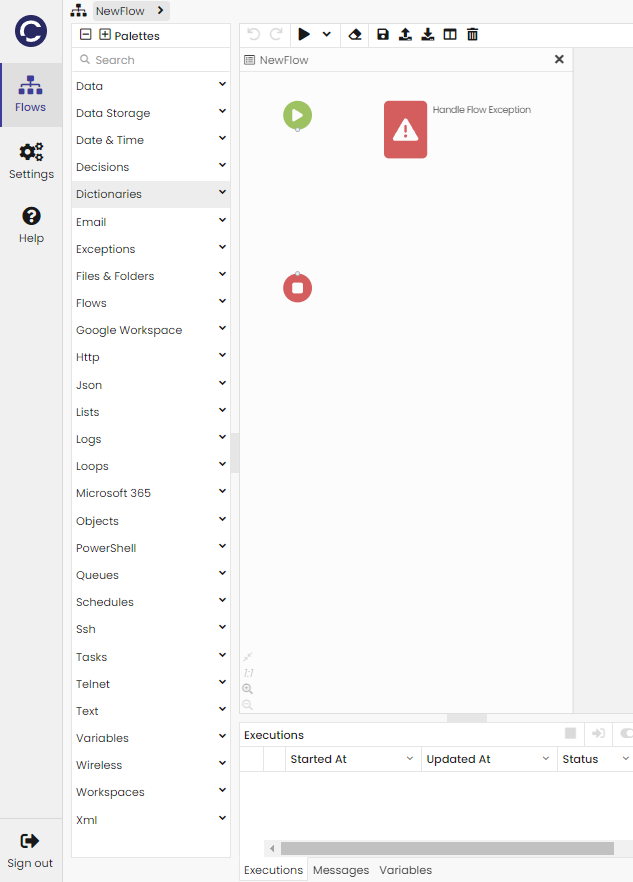
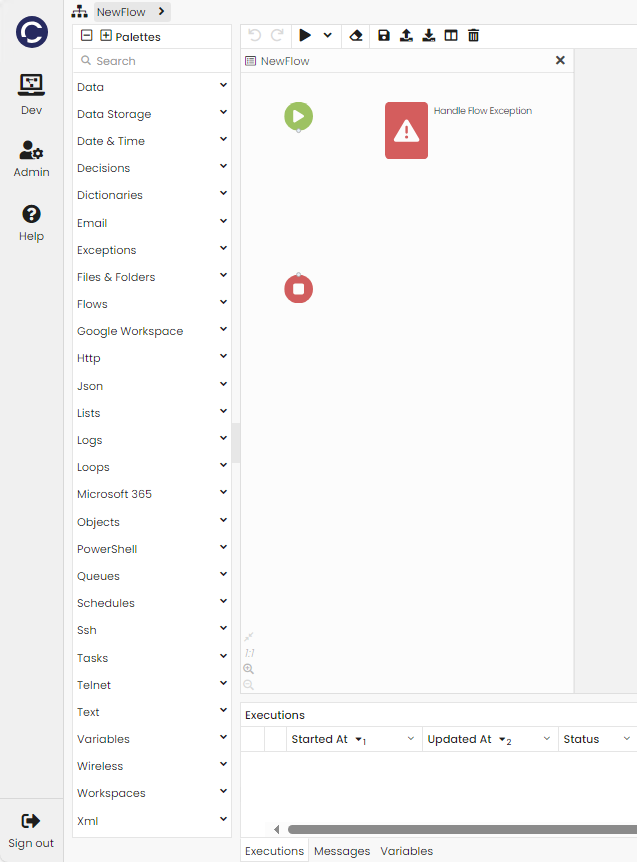
Updated Try it Out to reference correct names and updated image.  Ensured all previous upgrade try it outs have the old image

diff --git a/content/en/docs/2024.9/_shared/upgrade/2024.9/upgrade-web-application-server/upgrade-flows.md b/content/en/docs/2024.9/_shared/upgrade/2024.9/upgrade-web-application-server/upgrade-flows.md
@@ -1,0 +1,43 @@
+1. Export the flows to be upgraded from {{% ctx %}} Gateway as a studio package:
+    1. In a browser, navigate to {{% ctx %}} Gateway and log in as a user with administrative privileges.
+    1. Click on the `Settings` charm and select `Studio Export`.
+    1. Select all the flows to be upgraded and click `Export`.
+    1. A message should be displayed confirming that the studio package was exported successfully.
+1. Open a Windows PowerShell (x64) window as administrator.
+1. Navigate PowerShell to inside the `Cortex Innovation 2024.9 - Flows Upgrader` folder using the following command, modifying the path as necessary:
+
+    ```powershell
+    cd "C:\Install\Cortex Innovation 2024.9 - Flows Upgrader"
+    ```
+
+1. Run the `Cortex.Upgrade.FlowsUpgrader.exe` application using the following command, modifying the path specified to contain the extracted studio package of flows to upgrade (typically this will have been exported to the local `Downloads` folder):
+
+    ```powershell
+    .\Cortex.Upgrade.FlowsUpgrader.exe "C:\Users\{Username}\Downloads\export.studiopkg"
+    ```
+
+1. A message similar to the following will indicate that the application has completed successfully:
+
+    ```text
+    Upgrading Flows
+    Flow Upgraded: Test Flows\TestFlow1.flow
+    Flow Upgraded: Test Flows\TestFlow3.flow
+    Flow Upgraded: Test Flows\TestFlow2.flow
+    Flows Upgraded
+    Upgraded Studio Package Created: export-28UpgradedTo30.StudioPkg
+    ```
+
+    A new studio package will have been created in the same location as the original export package with the name `{PackageName}-{PreviousVersion}UpgradedTo{NewVersion}.studiopkg`.
+1. Import the upgraded flow package into {{% ctx %}} Gateway:
+    1. In a browser, navigate to {{% ctx %}} Gateway and log in as a user with administrative privileges.
+    1. Click on the `Settings` charm and select `Studio Import`.
+    1. Select `Browse` and locate and select the upgraded studio package and click `Open`.
+    1. Verify that there are no flows with a red status and click `Import`.
+    1. A message should be displayed confirming that the studio package was imported successfully.
+1. Re-publish any previously published packages:
+    1. Click on the `Settings` charm and select `Packages`.
+    1. On the table of Package Definitions filter the Is Published column to display `Is Published`.
+    1. For each package listed select it in the table then:
+        1. Scroll down to below the package definition and select `Create New Version`.
+        1. Click `Save`.
+        1. Click `Publish`.

diff --git a/content/en/docs/2024.9/_shared/upgrade/2024.5/upgrade-web-application-server/test-upgrade.md b/content/en/docs/2024.9/_shared/upgrade/2024.5/upgrade-web-application-server/test-upgrade.md
@@ -2,13 +2,13 @@
 
 Test the platform by creating a new flow and executing it using the following steps:
 
-1. Click on the `Flows` charm, then the `+` button and click `Group` to open a dialog.
+1. Click on the `Dev` charm, then the `+` button and click `Group` to open a dialog.
 1. Enter a name for the group, configure the `Permission Groups` and click `OK` to create the group.
 1. Click on the group to open it (refresh the page if it does not appear).
-1. Inside the group, click the `+` button again and click on `Flow` to open a dialog. If the menu item is not present, it means that the `FeatureFlags` in the `CortexGateway.SetParameters.xml` file was not set properly when installing Gateway. See [Troubleshooting][] for more information.
+1. Inside the group, click the `+` button again and click on `Activity` to open a dialog. If the menu item is not present, it means that the `FeatureFlags` in the `CortexGateway.SetParameters.xml` file was not set properly when installing Gateway. See [Troubleshooting][] for more information.
 1. Enter a name for the flow, configure the `Permission Groups` and click `OK` to create the flow.
 1. The flow should be displayed with a start flow block and end flow block, if those blocks are not displayed see [Troubleshooting][]. A list of block palettes should be displayed down the left hand side:
-    {{< figure src="/images/New Innovation Flow View.PNG" title="New Flow - Number of palettes may differ" >}}
+    {{< figure src="../../2024.5/images/New Innovation Flow View.PNG" title="New Flow - Number of palettes may differ" >}}
 1. Add a `Set Variable` block and connect it between the start and end blocks.
 1. Click the `Set Variable` block to open the Property Editor.
 1. Set the `Value` property to the expression `DateTimeOffset.Now`.
@@ -21,7 +21,7 @@ Test the platform by creating a new flow and executing it using the following st
 ## Test Publishing Production Flows
 
 1. Log in to Gateway with a user that has the `Admin` role.
-1. Click on the `Settings` charm, then `Packages`.
+1. Click on the `Admin` charm, then `Packages`.
 1. Click `Add Package Definition`. Enter a package name and select the new flow to add to the package. Click `Save` to save the new package.
 1. Click `Publish`. A success message should appear. If it doesn't it means that there is a problem with the configuration in the `web.config` file for {{% ctx %}} Gateway, or the Application Services aren't healthy. See [Troubleshooting][] for more information.
 

diff --git a/content/en/docs/2024.9/_shared/upgrade/2024.3/upgrade-web-application-server/test-upgrade.md b/content/en/docs/2024.9/_shared/upgrade/2024.3/upgrade-web-application-server/test-upgrade.md
@@ -1,0 +1,28 @@
+## Test Debugging Flows
+
+Test the platform by creating a new flow and executing it using the following steps:
+
+1. Click on the `Dev` charm, then the `+` button and click `Group` to open a dialog.
+1. Enter a name for the group, configure the `Permission Groups` and click `OK` to create the group.
+1. Click on the group to open it (refresh the page if it does not appear).
+1. Inside the group, click the `+` button again and click on `Activity` to open a dialog. If the menu item is not present, it means that the `FeatureFlags` in the `CortexGateway.SetParameters.xml` file was not set properly when installing Gateway. See [Troubleshooting][] for more information.
+1. Enter a name for the flow, configure the `Permission Groups` and click `OK` to create the flow.
+1. The flow should be displayed with a start flow block and end flow block, if those blocks are not displayed see [Troubleshooting][]. A list of block palettes should be displayed down the left hand side:
+    {{< figure src="../../2024.3/images/New Innovation Flow View.PNG" title="New Flow - Number of palettes may differ" >}}
+1. Add a `Set Variable` block and connect it between the start and end blocks.
+1. Click the `Set Variable` block to open the Property Editor.
+1. Set the `Value` property to the expression `DateTimeOffset.Now`.
+1. Type `Result` into the `Variable` property and click `Create Result`.
+1. In the Variable Editor, set `Is Output Variable?` to `true` for the new `Result` variable.
+1. Set a breakpoint on the end block and start the flow. An execution token should appear, the `Result` variable should show the current time. If the token does not appear, try refreshing the page. Failing that, see [Troubleshooting][].
+1. Continue or stop the execution.
+1. Commit the flow.
+
+## Test Publishing Production Flows
+
+1. Log in to Gateway with a user that has the `Admin` role.
+1. Click on the `Admin` charm, then `Packages`.
+1. Click `Add Package Definition`. Enter a package name and select the new flow to add to the package. Click `Save` to save the new package.
+1. Click `Publish`. A success message should appear. If it doesn't it means that there is a problem with the configuration in the `web.config` file for {{% ctx %}} Gateway, or the Application Services aren't healthy. See [Troubleshooting][] for more information.
+
+[Troubleshooting]: {{< url path="Cortex.Reference.Troubleshooting.Upgrade.TroubleshootingDuringUpgrade" >}}

diff --git a/content/en/docs/2024.9/_shared/upgrade/2024.7/upgrade-web-application-server/test-upgrade.md b/content/en/docs/2024.9/_shared/upgrade/2024.7/upgrade-web-application-server/test-upgrade.md
@@ -1,0 +1,28 @@
+## Test Debugging Flows
+
+Test the platform by creating a new flow and executing it using the following steps:
+
+1. Click on the `Dev` charm, then the `+` button and click `Group` to open a dialog.
+1. Enter a name for the group, configure the `Permission Groups` and click `OK` to create the group.
+1. Click on the group to open it (refresh the page if it does not appear).
+1. Inside the group, click the `+` button again and click on `Activity` to open a dialog. If the menu item is not present, it means that the `FeatureFlags` in the `CortexGateway.SetParameters.xml` file was not set properly when installing Gateway. See [Troubleshooting][] for more information.
+1. Enter a name for the flow, configure the `Permission Groups` and click `OK` to create the flow.
+1. The flow should be displayed with a start flow block and end flow block, if those blocks are not displayed see [Troubleshooting][]. A list of block palettes should be displayed down the left hand side:
+    {{< figure src="../../2024.7/images/New Innovation Flow View.PNG" title="New Flow - Number of palettes may differ" >}}
+1. Add a `Set Variable` block and connect it between the start and end blocks.
+1. Click the `Set Variable` block to open the Property Editor.
+1. Set the `Value` property to the expression `DateTimeOffset.Now`.
+1. Type `Result` into the `Variable` property and click `Create Result`.
+1. In the Variable Editor, set `Is Output Variable?` to `true` for the new `Result` variable.
+1. Set a breakpoint on the end block and start the flow. An execution token should appear, the `Result` variable should show the current time. If the token does not appear, try refreshing the page. Failing that, see [Troubleshooting][].
+1. Continue or stop the execution.
+1. Commit the flow.
+
+## Test Publishing Production Flows
+
+1. Log in to Gateway with a user that has the `Admin` role.
+1. Click on the `Admin` charm, then `Packages`.
+1. Click `Add Package Definition`. Enter a package name and select the new flow to add to the package. Click `Save` to save the new package.
+1. Click `Publish`. A success message should appear. If it doesn't it means that there is a problem with the configuration in the `web.config` file for {{% ctx %}} Gateway, or the Application Services aren't healthy. See [Troubleshooting][] for more information.
+
+[Troubleshooting]: {{< url path="Cortex.Reference.Troubleshooting.Upgrade.TroubleshootingDuringUpgrade" >}}

diff --git a/content/en/docs/2024.9/_shared/upgrade/2024.9/upgrade-web-application-server/test-upgrade.md b/content/en/docs/2024.9/_shared/upgrade/2024.9/upgrade-web-application-server/test-upgrade.md
@@ -1,0 +1,28 @@
+## Test Debugging Flows
+
+Test the platform by creating a new flow and executing it using the following steps:
+
+1. Click on the `Dev` charm, then the `+` button and click `Group` to open a dialog.
+1. Enter a name for the group, configure the `Permission Groups` and click `OK` to create the group.
+1. Click on the group to open it (refresh the page if it does not appear).
+1. Inside the group, click the `+` button again and click on `Activity` to open a dialog. If the menu item is not present, it means that the `FeatureFlags` in the `CortexGateway.SetParameters.xml` file was not set properly when installing Gateway. See [Troubleshooting][] for more information.
+1. Enter a name for the flow, configure the `Permission Groups` and click `OK` to create the flow.
+1. The flow should be displayed with a start flow block and end flow block, if those blocks are not displayed see [Troubleshooting][]. A list of block palettes should be displayed down the left hand side:
+    {{< figure src="../../2024.9/images/New Innovation Flow View.PNG" title="New Flow - Number of palettes may differ" >}}
+1. Add a `Set Variable` block and connect it between the start and end blocks.
+1. Click the `Set Variable` block to open the Property Editor.
+1. Set the `Value` property to the expression `DateTimeOffset.Now`.
+1. Type `Result` into the `Variable` property and click `Create Result`.
+1. In the Variable Editor, set `Is Output Variable?` to `true` for the new `Result` variable.
+1. Set a breakpoint on the end block and start the flow. An execution token should appear, the `Result` variable should show the current time. If the token does not appear, try refreshing the page. Failing that, see [Troubleshooting][].
+1. Continue or stop the execution.
+1. Commit the flow.
+
+## Test Publishing Production Flows
+
+1. Log in to Gateway with a user that has the `Admin` role.
+1. Click on the `Admin` charm, then `Packages`.
+1. Click `Add Package Definition`. Enter a package name and select the new flow to add to the package. Click `Save` to save the new package.
+1. Click `Publish`. A success message should appear. If it doesn't it means that there is a problem with the configuration in the `web.config` file for {{% ctx %}} Gateway, or the Application Services aren't healthy. See [Troubleshooting][] for more information.
+
+[Troubleshooting]: {{< url path="Cortex.Reference.Troubleshooting.Upgrade.TroubleshootingDuringUpgrade" >}}

diff --git a/content/en/docs/2024.9/getting-started/on-premise/add-innovation-to-72/single-server-without-ha/try-it-out.md b/content/en/docs/2024.9/getting-started/on-premise/add-innovation-to-72/single-server-without-ha/try-it-out.md
@@ -13,10 +13,10 @@ This guide describes how to try out a new Innovation installation to make sure i
 
 Test the platform by creating a new flow and executing it using the following steps:
 
-1. Click on the `Flows` charm, then the `+` button and click `Group` to open a dialog.
+1. Click on the `Dev` charm, then the `+` button and click `Group` to open a dialog.
 1. Enter a name for the group, configure the `Permission Groups` and click `OK` to create the group.
 1. Click on the group to open it (refresh the page if it does not appear).
-1. Inside the group, click the `+` button again and click on <code>Flow<sup>(Innovation)</sup></code> to open a dialog. If the menu item is not present, it means that the `FeatureFlags` in the `Cortex.Innovation.Install.ps1` file was not set properly when updating Gateway. See [Troubleshooting][Troubleshooting No Innovation] for more information.
+1. Inside the group, click the `+` button again and click on `Activity` to open a dialog. If the menu item is not present, it means that the `FeatureFlags` in the `Cortex.Innovation.Install.ps1` file was not set properly when updating Gateway. See [Troubleshooting][Troubleshooting No Innovation] for more information.
 1. Enter a name for the flow, configure the `Permission Groups` and click `OK` to create the flow.
 1. The flow should be displayed with a start flow block and end flow block, if those blocks are not displayed see [Troubleshooting][Troubleshooting Flow No Blocks]. A list of block palettes should be displayed down the left hand side:
     {{< figure src="/images/New Innovation Flow View.PNG" title="New Flow - Number of palettes may differ" >}}
@@ -32,7 +32,7 @@ Test the platform by creating a new flow and executing it using the following st
 ## Test Publishing Production Flows
 
 1. Log in to Gateway with a user that has the `Admin` role.
-1. Click on the `Settings` charm, then `Packages`.
+1. Click on the `Admin` charm, then `Packages`.
 1. Click `Add Package Definition`. Enter a package name and select the new flow to add to the package. Click `Save` to save the new package.
 1. Click `Publish`. A success message should appear. If it doesn't it means that either one or more of the parameters prefixed with `Service Fabric` in the `CortexGateway.SetParameters.xml` file was not set properly when installing Gateway, or the Application Services aren't healthy. See [Troubleshooting][Troubleshooting No Publish] for more information.
 

diff --git a/content/en/docs/2024.9/getting-started/on-premise/install-innovation-only/single-server-without-ha/try-it-out.md b/content/en/docs/2024.9/getting-started/on-premise/install-innovation-only/single-server-without-ha/try-it-out.md
@@ -13,10 +13,10 @@ This guide describes how to try out a new Innovation installation to make sure i
 
 Test the platform by creating a new flow and executing it using the following steps:
 
-1. Click on the `Flows` charm, then the `+` button and click `Group` to open a dialog.
+1. Click on the `Dev` charm, then the `+` button and click `Group` to open a dialog.
 1. Enter a name for the group, configure the `Permission Groups` and click `OK` to create the group.
 1. Click on the group to open it (refresh the page if it does not appear).
-1. Inside the group, click the `+` button again and click on `Flow` to open a dialog. If the menu item is not present, it means that the `FeatureFlags` in the `CortexGateway.SetParameters.xml` file was not set properly when installing Gateway. See [Troubleshooting][Troubleshooting No Innovation] for more information.
+1. Inside the group, click the `+` button again and click on `Activity` to open a dialog. If the menu item is not present, it means that the `FeatureFlags` in the `CortexGateway.SetParameters.xml` file was not set properly when installing Gateway. See [Troubleshooting][Troubleshooting No Innovation] for more information.
 1. Enter a name for the flow, configure the `Permission Groups` and click `OK` to create the flow.
 1. The flow should be displayed with a start flow block and end flow block, if those blocks are not displayed see [Troubleshooting][Troubleshooting Flow No Blocks]. A list of block palettes should be displayed down the left hand side:
     {{< figure src="/images/New Innovation Flow View.PNG" title="New Flow - Number of palettes may differ" >}}
@@ -32,7 +32,7 @@ Test the platform by creating a new flow and executing it using the following st
 ## Test Publishing Production Flows
 
 1. Log in to Gateway with a user that has the `Admin` role.
-1. Click on the `Settings` charm, then `Packages`.
+1. Click on the `Admin` charm, then `Packages`.
 1. Click `Add Package Definition`. Enter a package name and select the new flow to add to the package. Click `Save` to save the new package.
 1. Click `Publish`. A success message should appear. If it doesn't it means that either one or more of the parameters prefixed with `Service Fabric` in the `CortexGateway.SetParameters.xml` file was not set properly when installing Gateway, or the Application Services aren't healthy. See [Troubleshooting][Troubleshooting No Publish] for more information.
 

diff --git a/content/en/docs/2024.9/getting-started/on-premise/add-innovation-to-72/multiple-server-with-ha/try-it-out.md b/content/en/docs/2024.9/getting-started/on-premise/add-innovation-to-72/multiple-server-with-ha/try-it-out.md
@@ -13,10 +13,10 @@ This guide describes how to try out a new Innovation installation to make sure i
 
 Test the platform by creating a new flow and executing it using the following steps:
 
-1. Click on the `Flows` charm, then the `+` button and click `Group` to open a dialog.
+1. Click on the `Dev` charm, then the `+` button and click `Group` to open a dialog.
 1. Enter a name for the group, configure the `Permission Groups` and click `OK` to create the group.
 1. Click on the group to open it (refresh the page if it does not appear).
-1. Inside the group, click the `+` button again and click on <code>Flow<sup>(Innovation)</sup></code> to open a dialog. If the menu item is not present, it means that the `FeatureFlags` in the `CortexGateway.SetParameters.xml` file was not set properly when installing Gateway. See [Troubleshooting][Troubleshooting No Innovation] for more information.
+1. Inside the group, click the `+` button again and click on `Activity` to open a dialog. If the menu item is not present, it means that the `FeatureFlags` in the `CortexGateway.SetParameters.xml` file was not set properly when installing Gateway. See [Troubleshooting][Troubleshooting No Innovation] for more information.
 1. Enter a name for the flow, configure the `Permission Groups` and click `OK` to create the flow.
 1. The flow should be displayed with a start flow block and end flow block. A list of block palettes should be displayed down the left hand side:
     {{< figure src="/images/New Innovation Flow View.PNG" title="New Flow - Number of palettes may differ" >}}
@@ -32,7 +32,7 @@ Test the platform by creating a new flow and executing it using the following st
 ## Test Publishing Production Flows
 
 1. Log in to Gateway with a user that has the `Admin` role.
-1. Click on the `Settings` charm, then `Packages`.
+1. Click on the `Admin` charm, then `Packages`.
 1. Click `Add Package Definition`. Enter a package name and select the new flow to add to the package. Click `Save` to save the new package.
 1. Click `Publish`. A success message should appear. If it doesn't it means that either one or more of the parameters prefixed with `Service Fabric` in the `CortexGateway.SetParameters.xml` file was not set properly when updating Gateway, or the Application Services aren't healthy. See [Troubleshooting][Troubleshooting No Publish] for more information.
 

diff --git a/content/en/docs/2024.9/getting-started/on-premise/install-innovation-only/multiple-server-with-ha/try-it-out.md b/content/en/docs/2024.9/getting-started/on-premise/install-innovation-only/multiple-server-with-ha/try-it-out.md
@@ -13,10 +13,10 @@ This guide describes how to try out a new Innovation installation to make sure i
 
 Test the platform by creating a new flow and executing it using the following steps:
 
-1. Click on the `Flows` charm, then the `+` button and click `Group` to open a dialog.
+1. Click on the `Dev` charm, then the `+` button and click `Group` to open a dialog.
 1. Enter a name for the group, configure the `Permission Groups` and click `OK` to create the group.
 1. Click on the group to open it (refresh the page if it does not appear).
-1. Inside the group, click the `+` button again and click on `Flow` to open a dialog. If the menu item is not present, it means that the `FeatureFlags` in the `CortexGateway.SetParameters.xml` file was not set properly when installing Gateway. See [Troubleshooting][Troubleshooting No Innovation] for more information.
+1. Inside the group, click the `+` button again and click on `Activity` to open a dialog. If the menu item is not present, it means that the `FeatureFlags` in the `CortexGateway.SetParameters.xml` file was not set properly when installing Gateway. See [Troubleshooting][Troubleshooting No Innovation] for more information.
 1. Enter a name for the flow, configure the `Permission Groups` and click `OK` to create the flow.
 1. The flow should be displayed with a start flow block and end flow block. A list of block palettes should be displayed down the left hand side:
     {{< figure src="/images/New Innovation Flow View.PNG" title="New Flow - Number of palettes may differ" >}}
@@ -32,7 +32,7 @@ Test the platform by creating a new flow and executing it using the following st
 ## Test Publishing Production Flows
 
 1. Log in to Gateway with a user that has the `Admin` role.
-1. Click on the `Settings` charm, then `Packages`.
+1. Click on the `Admin` charm, then `Packages`.
 1. Click `Add Package Definition`. Enter a package name and select the new flow to add to the package. Click `Save` to save the new package.
 1. Click `Publish`. A success message should appear. If it doesn't it means that either one or more of the parameters prefixed with `Service Fabric` in the `CortexGateway.SetParameters.xml` file was not set properly when installing Gateway, or the Application Services aren't healthy. See [Troubleshooting][Troubleshooting No Publish] for more information.
 

diff --git a/content/en/docs/2024.9/Guides/upgrade-cortex/2024.1-to-2024.3/multiple-server-with-ha/try-it-out.md b/content/en/docs/2024.9/Guides/upgrade-cortex/2024.1-to-2024.3/multiple-server-with-ha/try-it-out.md
@@ -9,7 +9,7 @@ weight: 60
 
 This guide describes how to try out an upgraded {{% ctx %}} to make sure it is working. Please ensure that both the [Application Servers and Load Balancer Upgrade][] and [Web Application Server Upgrade][] has been completed before taking these steps.
 
-{{< section "/upgrade/try-it-out/test-upgrade.md" >}}
+{{< section "/upgrade/2024.3/upgrade-web-application-server/test-upgrade.md" >}}
 
 ## Test Executing Production Flows
 

diff --git a/content/en/docs/2024.9/Guides/upgrade-cortex/2024.3-to-2024.5/multiple-server-with-ha/try-it-out.md b/content/en/docs/2024.9/Guides/upgrade-cortex/2024.3-to-2024.5/multiple-server-with-ha/try-it-out.md
@@ -9,7 +9,7 @@ weight: 60
 
 This guide describes how to try out an upgraded {{% ctx %}} to make sure it is working. Please ensure that both the [Application Servers and Load Balancer Upgrade][] and [Web Application Server Upgrade][] has been completed before taking these steps.
 
-{{< section "/upgrade/try-it-out/test-upgrade.md" >}}
+{{< section "/upgrade/2024.5/upgrade-web-application-server/test-upgrade.md" >}}
 
 ## Test Executing Production Flows
 

diff --git a/content/en/docs/2024.9/Guides/upgrade-cortex/2024.5-to-2024.7/multiple-server-with-ha/try-it-out.md b/content/en/docs/2024.9/Guides/upgrade-cortex/2024.5-to-2024.7/multiple-server-with-ha/try-it-out.md
@@ -9,7 +9,7 @@ weight: 60
 
 This guide describes how to try out an upgraded {{% ctx %}} to make sure it is working. Please ensure that both the [Application Servers and Load Balancer Upgrade][] and [Web Application Server Upgrade][] has been completed before taking these steps.
 
-{{< section "/upgrade/try-it-out/test-upgrade.md" >}}
+{{< section "/upgrade/2024.7/upgrade-web-application-server/test-upgrade.md" >}}
 
 ## Test Executing Production Flows
 
